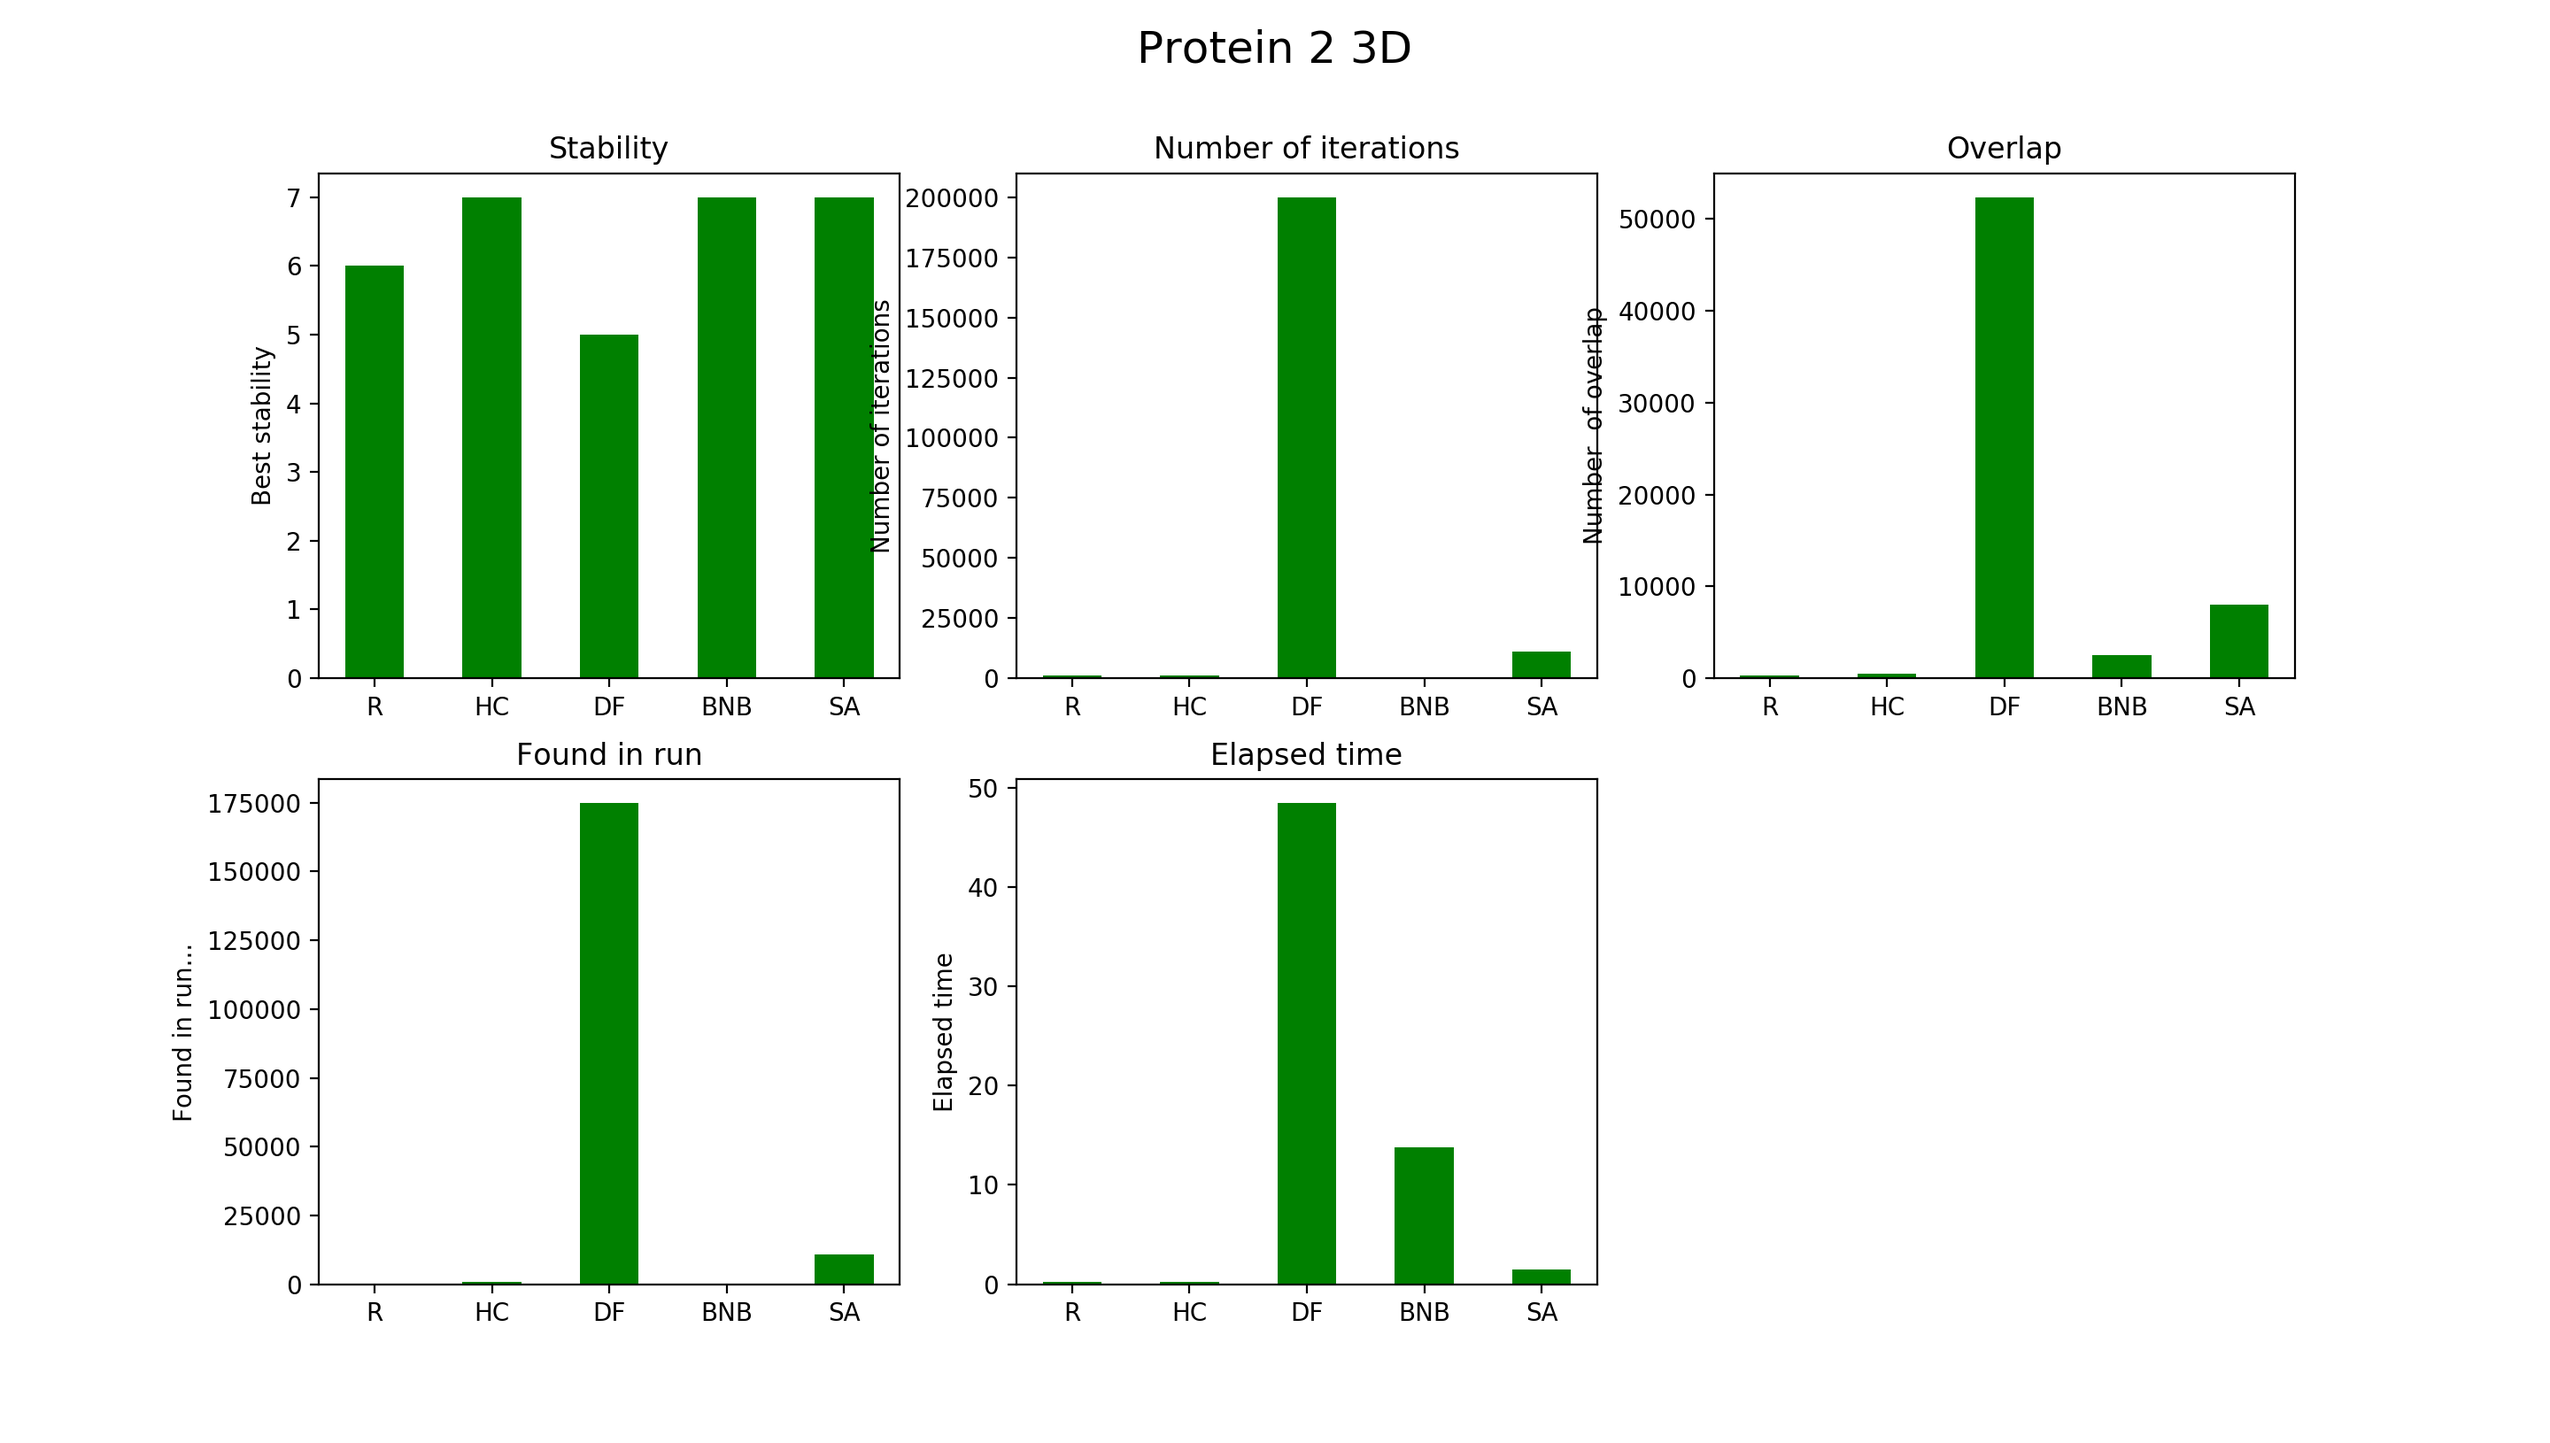
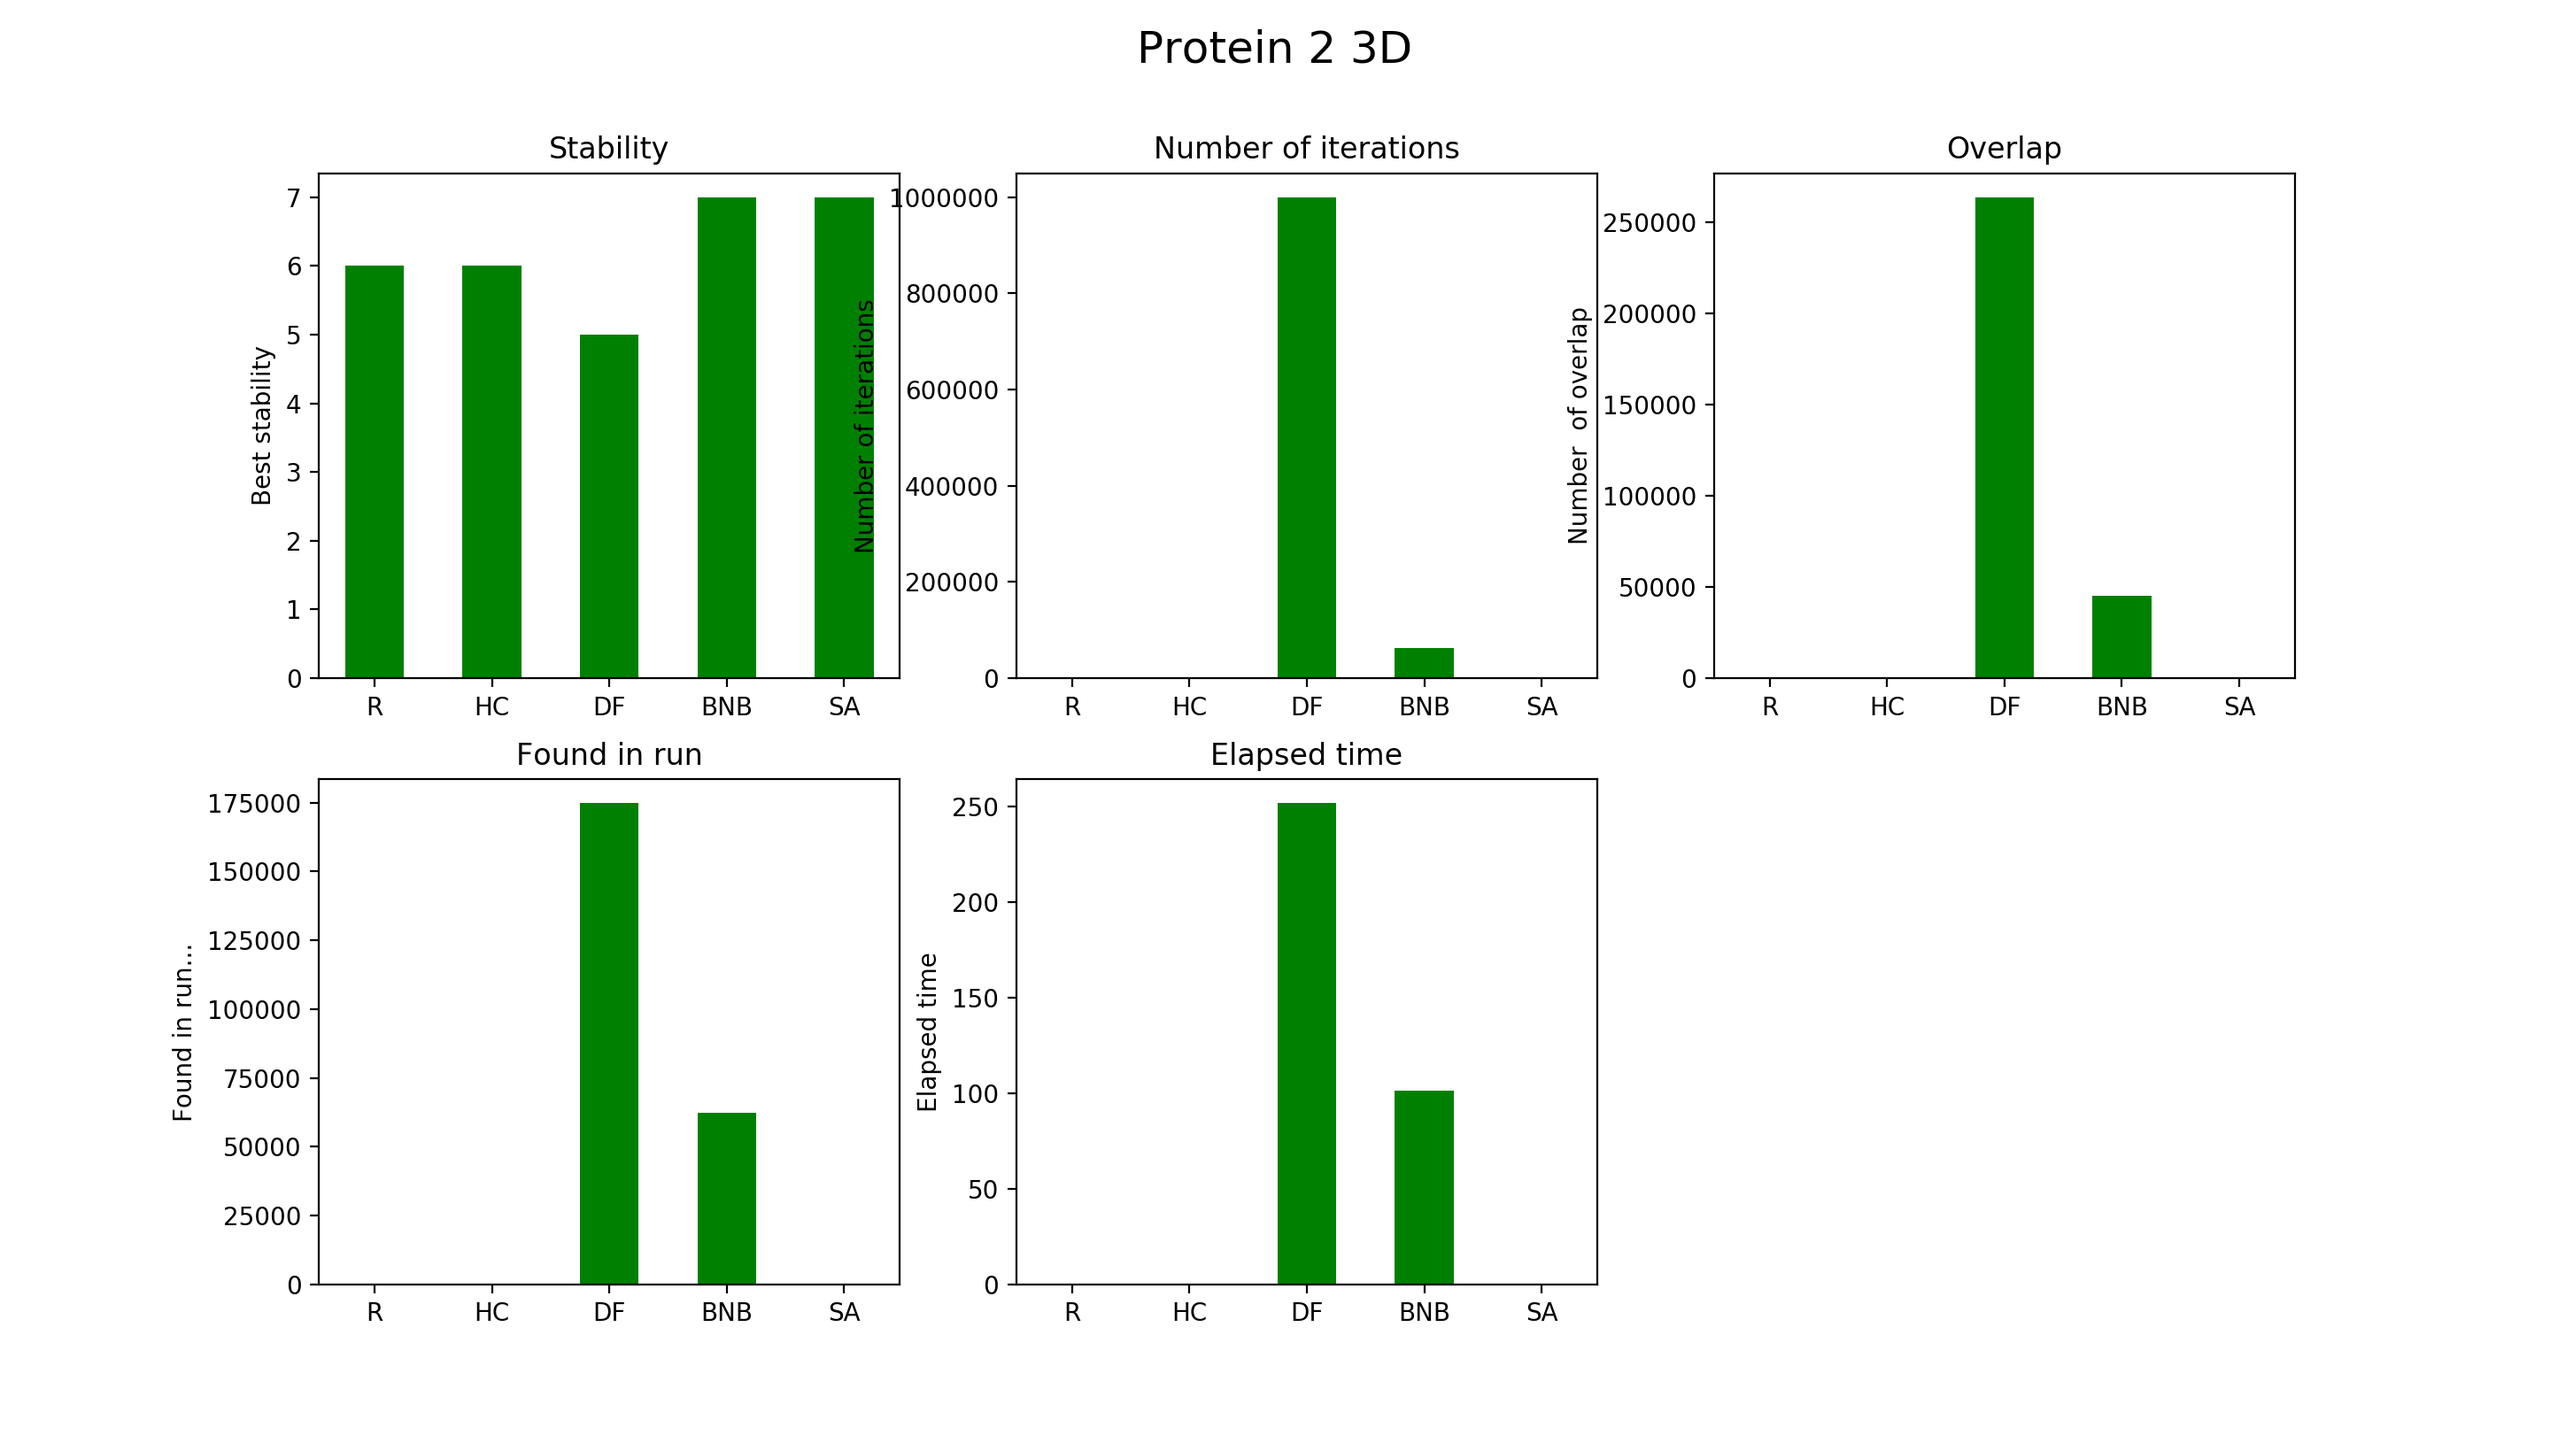
results

diff --git a/algorithms/DepthFirst.py b/algorithms/DepthFirst.py
@@ -60,7 +60,7 @@ class DepthFirst(Algorithm):
                     continue
 
                 # check for lower stability
-                self.checkBest(k)
+                self.checkBest()
 
                 # write to csv
                 self.writeCsvRow()
@@ -69,6 +69,9 @@ class DepthFirst(Algorithm):
                 # set orientation and fold
                 self.foldPattern[k - 1] = orientation
                 self.protein.fold(self.foldPattern)
+
+                if self.pruneStraight(k):
+                    continue
 
                 # prune on basis of stability
                 if self.pruneStability(k):
@@ -84,6 +87,11 @@ class DepthFirst(Algorithm):
     def pruneStability(self, k):
         """ Non-functional method for depth first class.
         Overriden in the Branch N bound class in order to prune based on stability """
+        return False
+
+    def pruneStraight(self, k):
+        """ Non-functional method for depth first class.
+        Overriden in the Branch N bound class in order to prune based on straight lines """
         return False
 
     def getParameter(self):

diff --git a/algorithms/BranchNBound.py b/algorithms/BranchNBound.py
@@ -45,10 +45,22 @@ class BranchNBound(DepthFirst):
         if self.protein.prune(k, self.bestStability):
             self.pruneCount += 1
             if self.pruneCount % 10000 == 0:
-                print(">> " + str(self.pruneCount) + " times pruned <<")
+                print(">> " + str(self.pruneCount) + " times pruned    ----     Stability: "
+                      + str(self.bestStability) + "    ----    <<")
             return True
         else:
             return False
+
+    def pruneStraight(self, k):
+        """ Prunes when 3 aminoacids in a row have the same orientation"""
+
+        # if a range with 3 in a row, prune!
+        for j in range(1, k - 1):
+            if self.foldPattern[j - 1] == self.foldPattern[j] and \
+                    self.foldPattern[j + 1] == self.foldPattern[j]:
+                return True
+
+        return False
 
     def checkOptimum(self):
         """ Checks if there is a known optimum for the protein.
